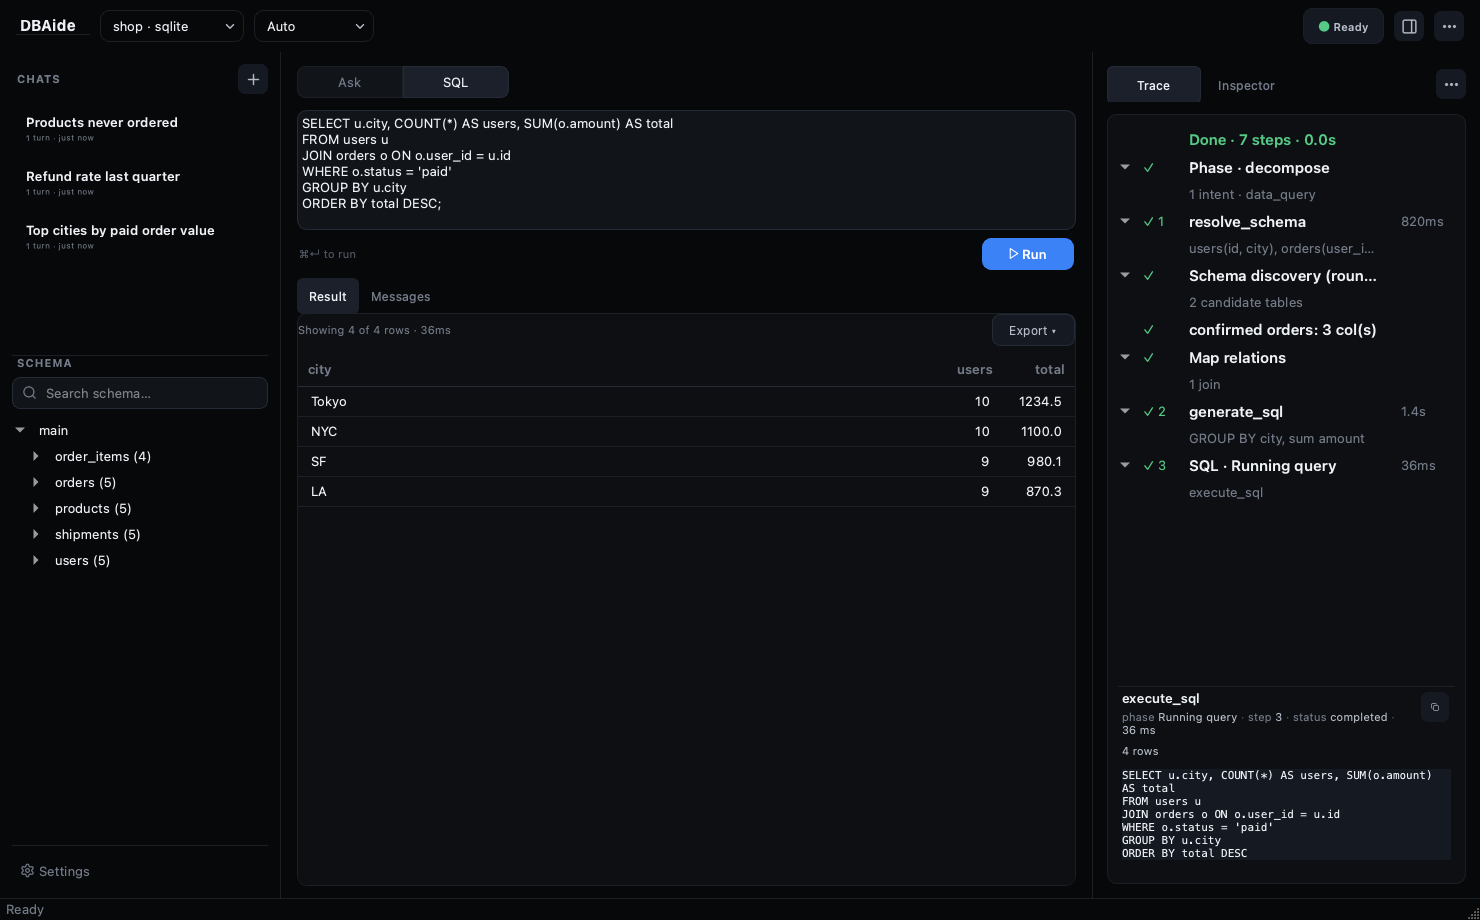
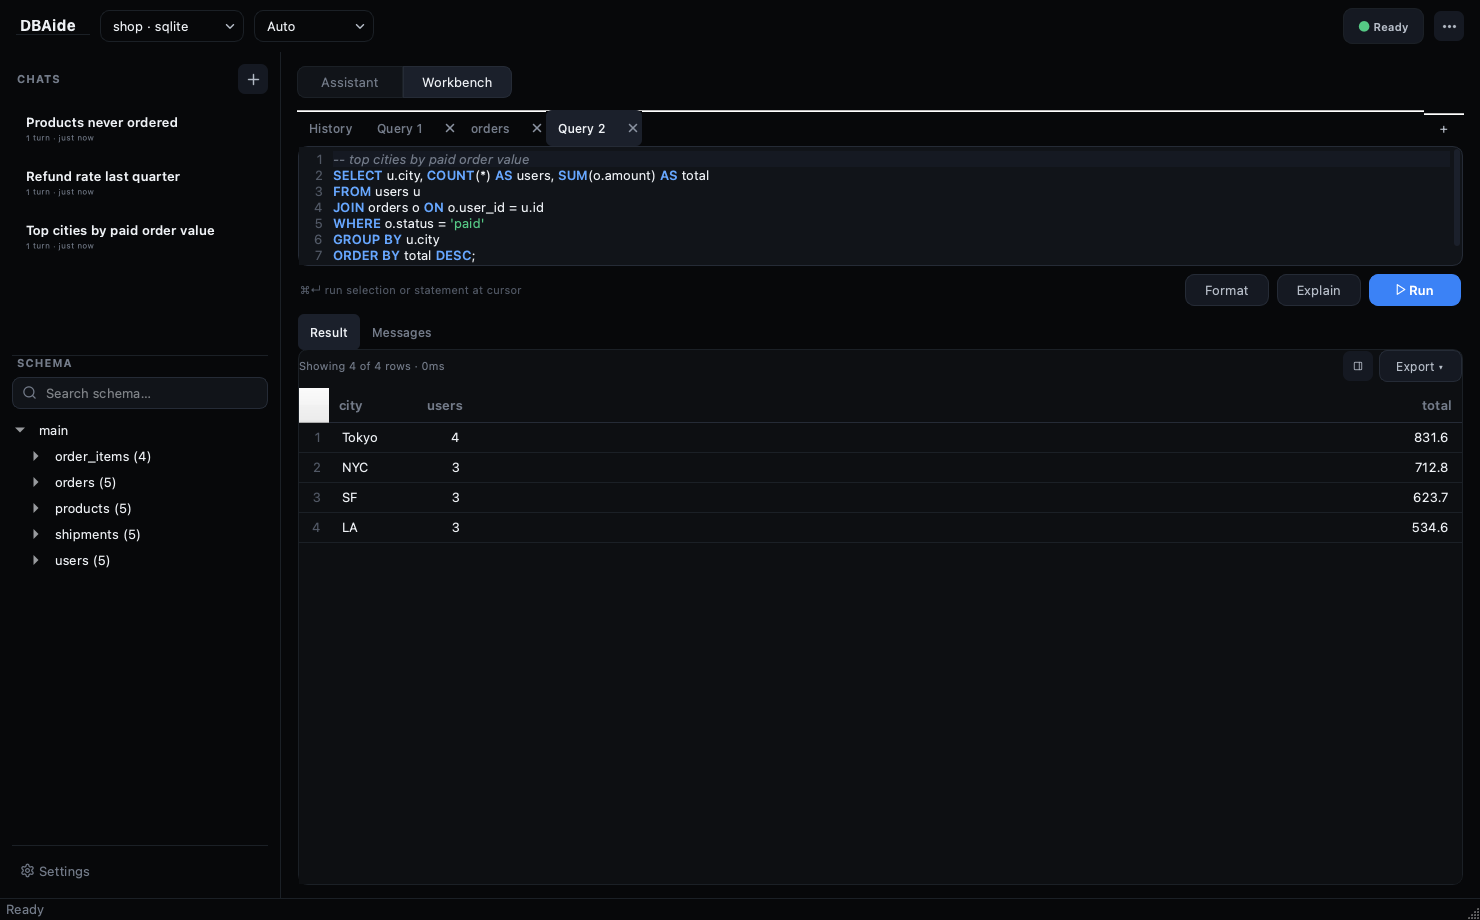
docs+polish: document the Workbench; robust last-column fill
- README + CHANGELOG: document the Workbench (multi-doc editors/viewers, data
  browser, structure, history, FK navigation, export, shortcuts). Regenerated
  docs/images/sql.png to show the new workspace.
- Result grid: use stretchLastSection for the fill column instead of manual slack
  math (which could overflow into a spurious horizontal scrollbar and didn't
  re-fit on resize). The last column now fills cleanly and tracks window resizes.

459 tests pass.

diff --git a/dbaide/desktop/components/table.py b/dbaide/desktop/components/table.py
@@ -277,22 +277,15 @@ class ResultTableWidget(QWidget):
             return
         header = self.table.horizontalHeader()
         self.table.resizeColumnsToContents()
-        # Size every column to its content (capped), leaving any slack as trailing
-        # space on the right — like a standard database-client grid. No single column
-        # is stretched to fill, which previously left an awkward mid-grid gap when the
-        # stretched column held short values.
-        total = 0
+        # Size every column to its content (capped), then let the last column absorb
+        # any remaining width. setStretchLastSection handles both the underfill case
+        # (last column grows to fill — no dangling edge gap) and resize, and never
+        # overflows into a spurious horizontal scrollbar. Standard DB-client grid feel.
+        header.setStretchLastSection(False)
         for i in range(self.table.columnCount()):
             header.setSectionResizeMode(i, QHeaderView.ResizeMode.Interactive)
             header.resizeSection(i, min(420, max(72, header.sectionSize(i))))
-            total += header.sectionSize(i)
-        # If the content leaves real slack in the viewport, let the last column take
-        # it so there's no thin dangling gap at the right edge. The fudge keeps us
-        # just inside the viewport so no spurious horizontal scrollbar appears.
-        slack = self.table.viewport().width() - total - 4
-        if slack > 16 and self.table.columnCount():
-            last = self.table.columnCount() - 1
-            header.resizeSection(last, header.sectionSize(last) + slack)
+        header.setStretchLastSection(True)
 
     def _show_full_cell(self, row: int, col: int) -> None:
         if not (0 <= row < len(self._rows) and 0 <= col < len(self._columns)):

diff --git a/CHANGELOG.md b/CHANGELOG.md
@@ -4,6 +4,38 @@ All notable changes to DBAide are documented here. The format is loosely based o
 [Keep a Changelog](https://keepachangelog.com/), and the project aims to follow
 [Semantic Versioning](https://semver.org/).
 
+## [Unreleased]
+
+### Added — Workbench (a read-only database client)
+
+The desktop app gains an **Assistant / Workbench** mode switch. The Workbench is a
+DBeaver-style, multi-document workspace, all routed through the same read-only
+guardrails as the agent:
+
+- **Multi-document tabs** — multiple SQL editors and per-table viewers open at once,
+  closeable and re-orderable, with a pinned Query History tab. Shortcuts: `⌘1`/`⌘2`
+  (mode), `⌘T` (new editor), `⌘W` (close).
+- **SQL editor** — schema-aware autocomplete, line numbers, current-line highlight,
+  **Format**, **Explain** (query plan), comment toggle (`⌘/`), and run the **selection
+  or the statement under the cursor** (`⌘↵`).
+- **Data browser** — paginated/sortable/filterable grid, row-number gutter, on-demand
+  exact **row count**, inline value viewer with JSON pretty-printing, and **foreign-key
+  navigation** (right-click a FK cell → open the referenced row).
+- **Structure** — columns, foreign-key relations (in/out, clickable), indexes, and a
+  generated, copyable `CREATE TABLE`.
+- **Query history** — per-connection, click to load, double-click to run.
+- **Export** — copy or save results as CSV / JSON / Markdown / `INSERT`.
+- **Schema tree** — right-click to open a table or **Generate SQL** templates; copy
+  (qualified) names.
+
+### Changed
+
+- Opening a table shows its (offline, instant) **Structure** first; the data query
+  runs lazily only when you open the Data tab.
+- The Trace / Inspector activity panel is now Assistant-only; the Workbench uses the
+  full width.
+- Connection forms show only the fields relevant to the selected type.
+
 ## [0.1.0] — 2025
 
 First public release: a local-first AI database assistant available as both a CLI
@@ -35,4 +67,5 @@ and a PyQt6 desktop app, sharing one Python core.
   drag-to-Applications)**, **Windows (`.msi` wizard)**, and **Linux (`.tar.gz`)** —
   pushing a `v*` tag cuts a GitHub Release automatically.
 
+[Unreleased]: https://github.com/W1412X/dbaide/compare/v0.1.0...HEAD
 [0.1.0]: https://github.com/W1412X/dbaide/releases/tag/v0.1.0

diff --git a/README.md b/README.md
@@ -35,6 +35,9 @@ number. DBAide is built on the opposite principle:
   of dumping the whole schema into the prompt.
 - 💬 **Run many conversations at once.** Each session runs in its own thread; start a
   query in one and switch to another while it works (concurrency is configurable).
+- 🧰 **A real database client, too.** Switch to the **Workbench** for a DBeaver-style
+  workspace: multiple SQL editors and table viewers, a data browser, structure & DDL,
+  query history — all read-only and safe (see below).
 - 🔌 **Works offline-ish.** No LLM configured? It falls back to deterministic heuristics
   for inspection, profiling, guardrails and simple queries.
 
@@ -70,7 +73,31 @@ dbaide-gui
 
 Add a connection from **Settings → Connections**, then ask in natural language. The
 agent's steps stream into the **Trace** panel on the right; generated SQL can be opened
-in the **SQL** tab to tweak and re-run (`⌘↵` / `Ctrl+↵`).
+in the **Workbench** to tweak and re-run.
+
+### Workbench — the database client
+
+Toggle **Assistant / Workbench** at the top. The Workbench is a multi-document
+workspace, all read-only and routed through the same guardrails as the agent:
+
+- 📑 **Multiple documents** — open several SQL editors and table viewers at once,
+  closeable and re-orderable. `⌘1`/`⌘2` switch modes, `⌘T` opens a new editor, `⌘W`
+  closes one.
+- ✍️ **SQL editor** — syntax highlighting, schema-aware autocomplete, line numbers,
+  current-line highlight, **Format**, **Explain** (query plan), comment toggle (`⌘/`),
+  and **run the selection or the statement under the cursor** (`⌘↵`).
+- 🔎 **Data browser** — paginated, sortable, filterable (`WHERE …`) grid with a row-
+  number gutter, on-demand exact **row count**, an inline value viewer (with JSON
+  pretty-printing), and **foreign-key navigation** — right-click a FK cell to open the
+  referenced row.
+- 🏗️ **Structure** — columns (type/key), foreign-key relations (in/out, clickable),
+  indexes, and a generated `CREATE TABLE` you can copy.
+- 🕑 **Query history** — every statement you run, recalled per connection; click to
+  load, double-click to run.
+- ⤵️ **Export** — copy or save results as CSV / JSON / Markdown / `INSERT`.
+
+Right-click a table in the schema tree to open it, or to **Generate SQL**
+(`SELECT` / `COUNT` / `INSERT` / `UPDATE` templates).
 
 ### CLI
 